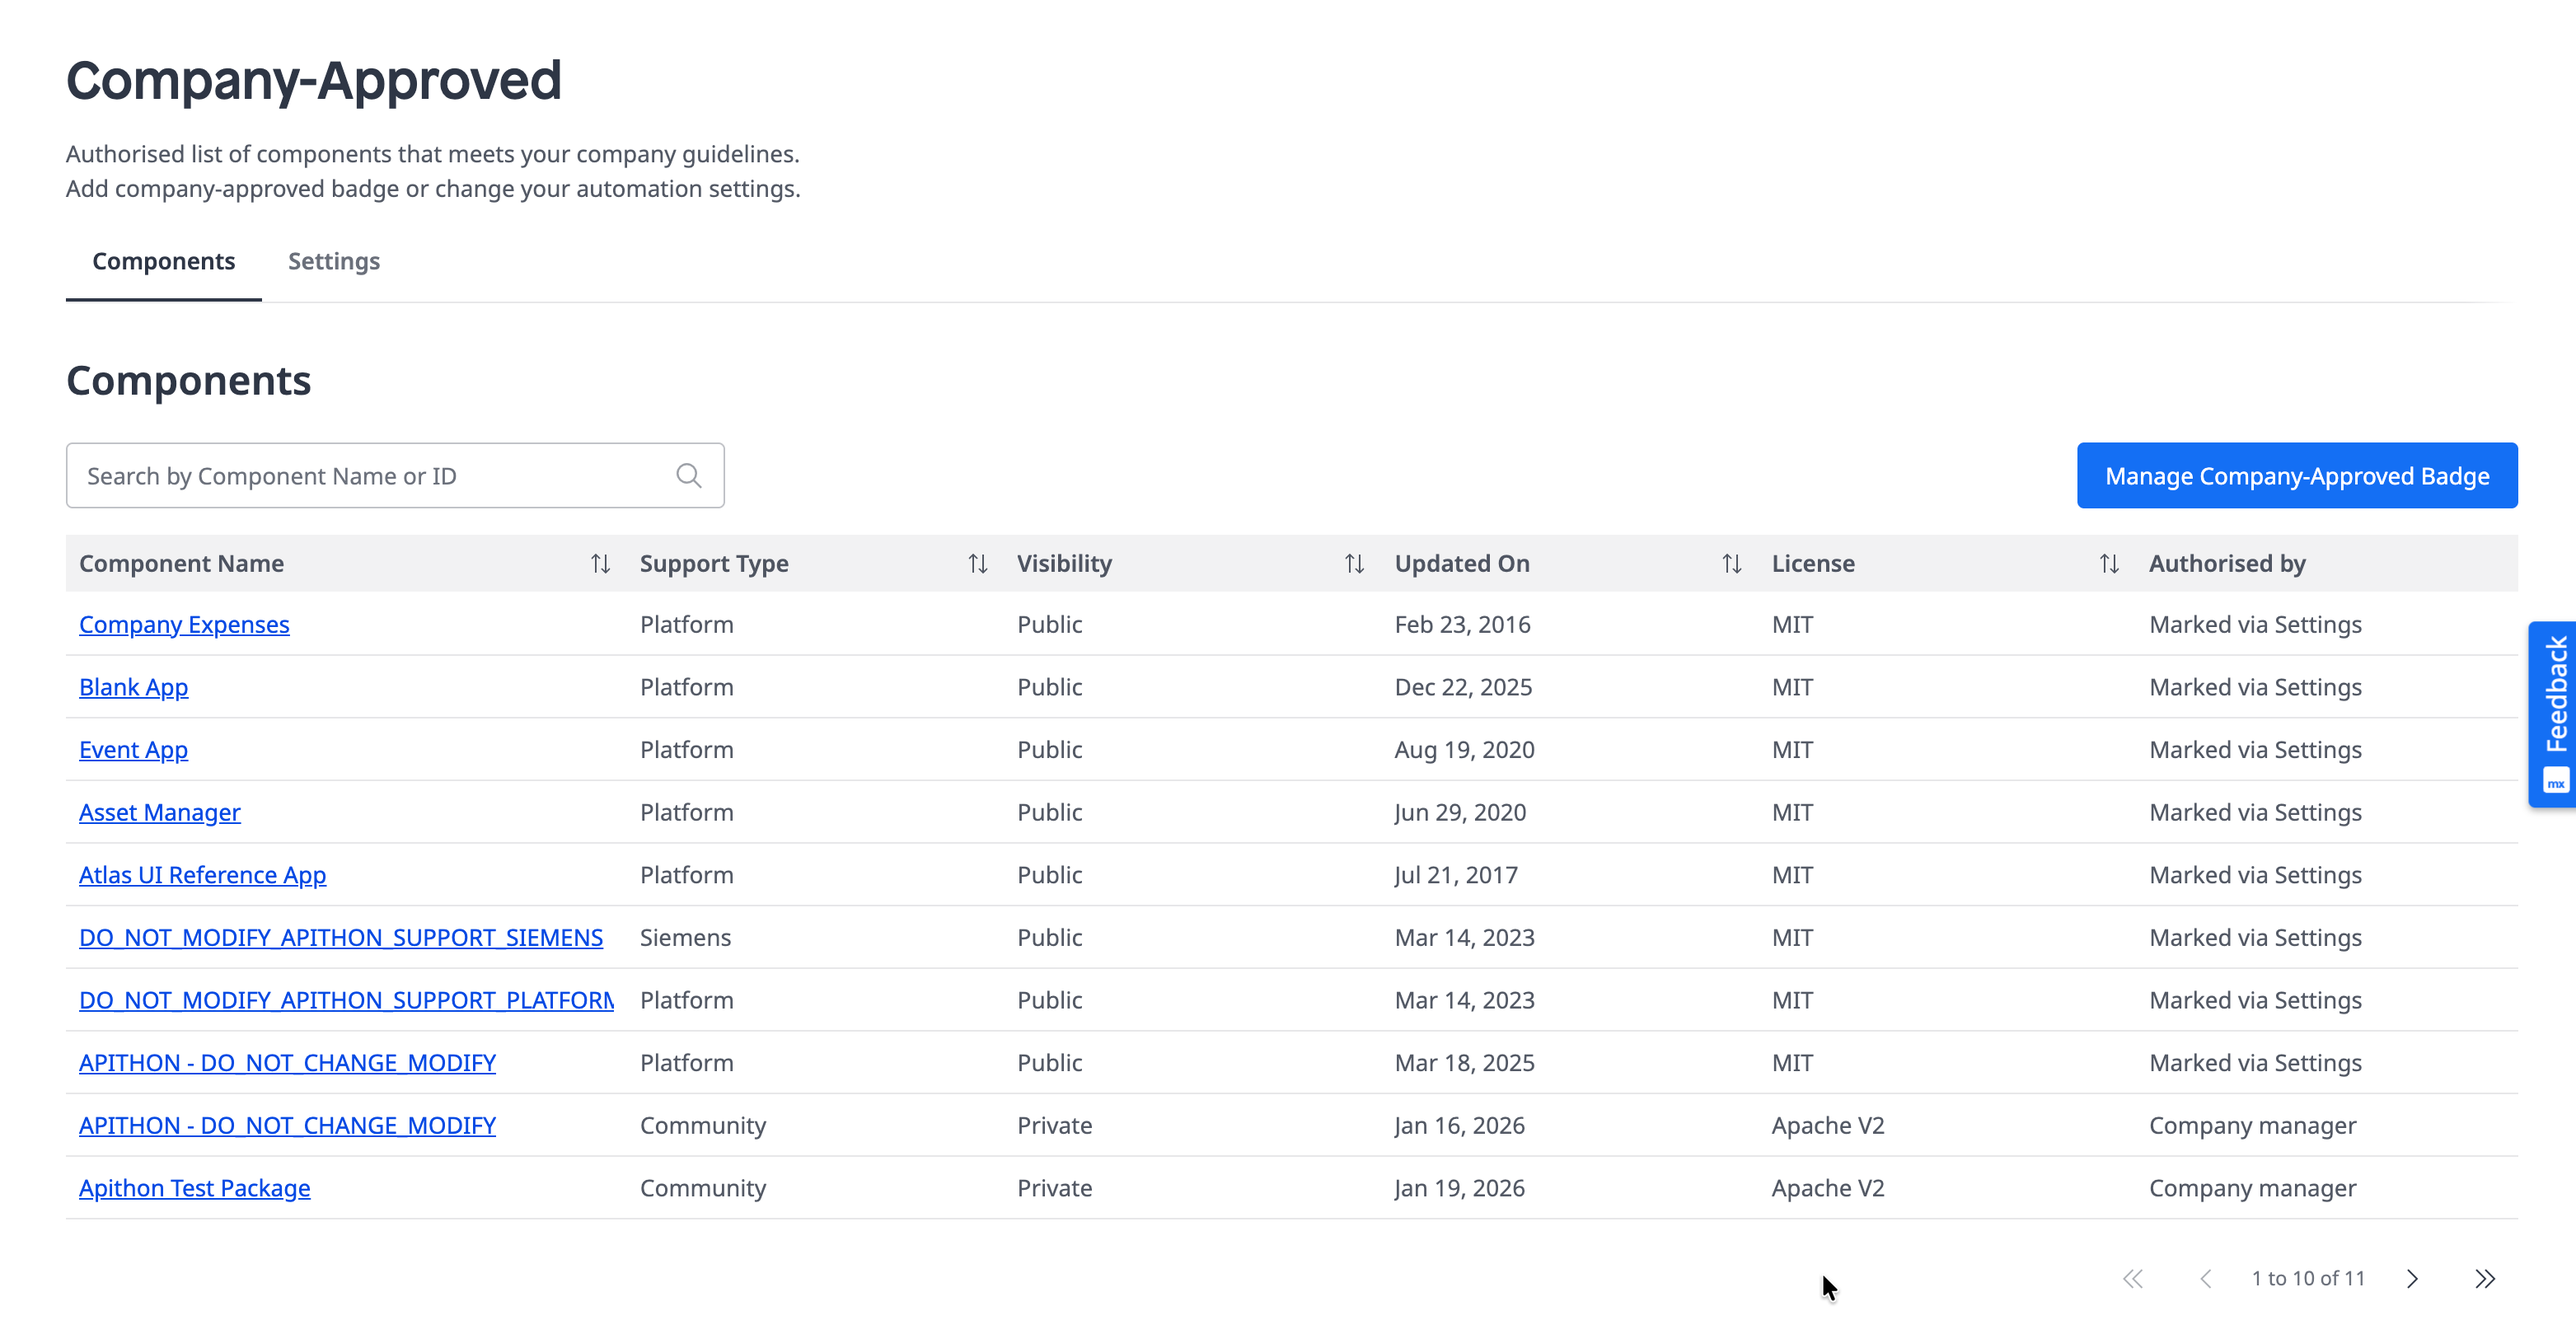
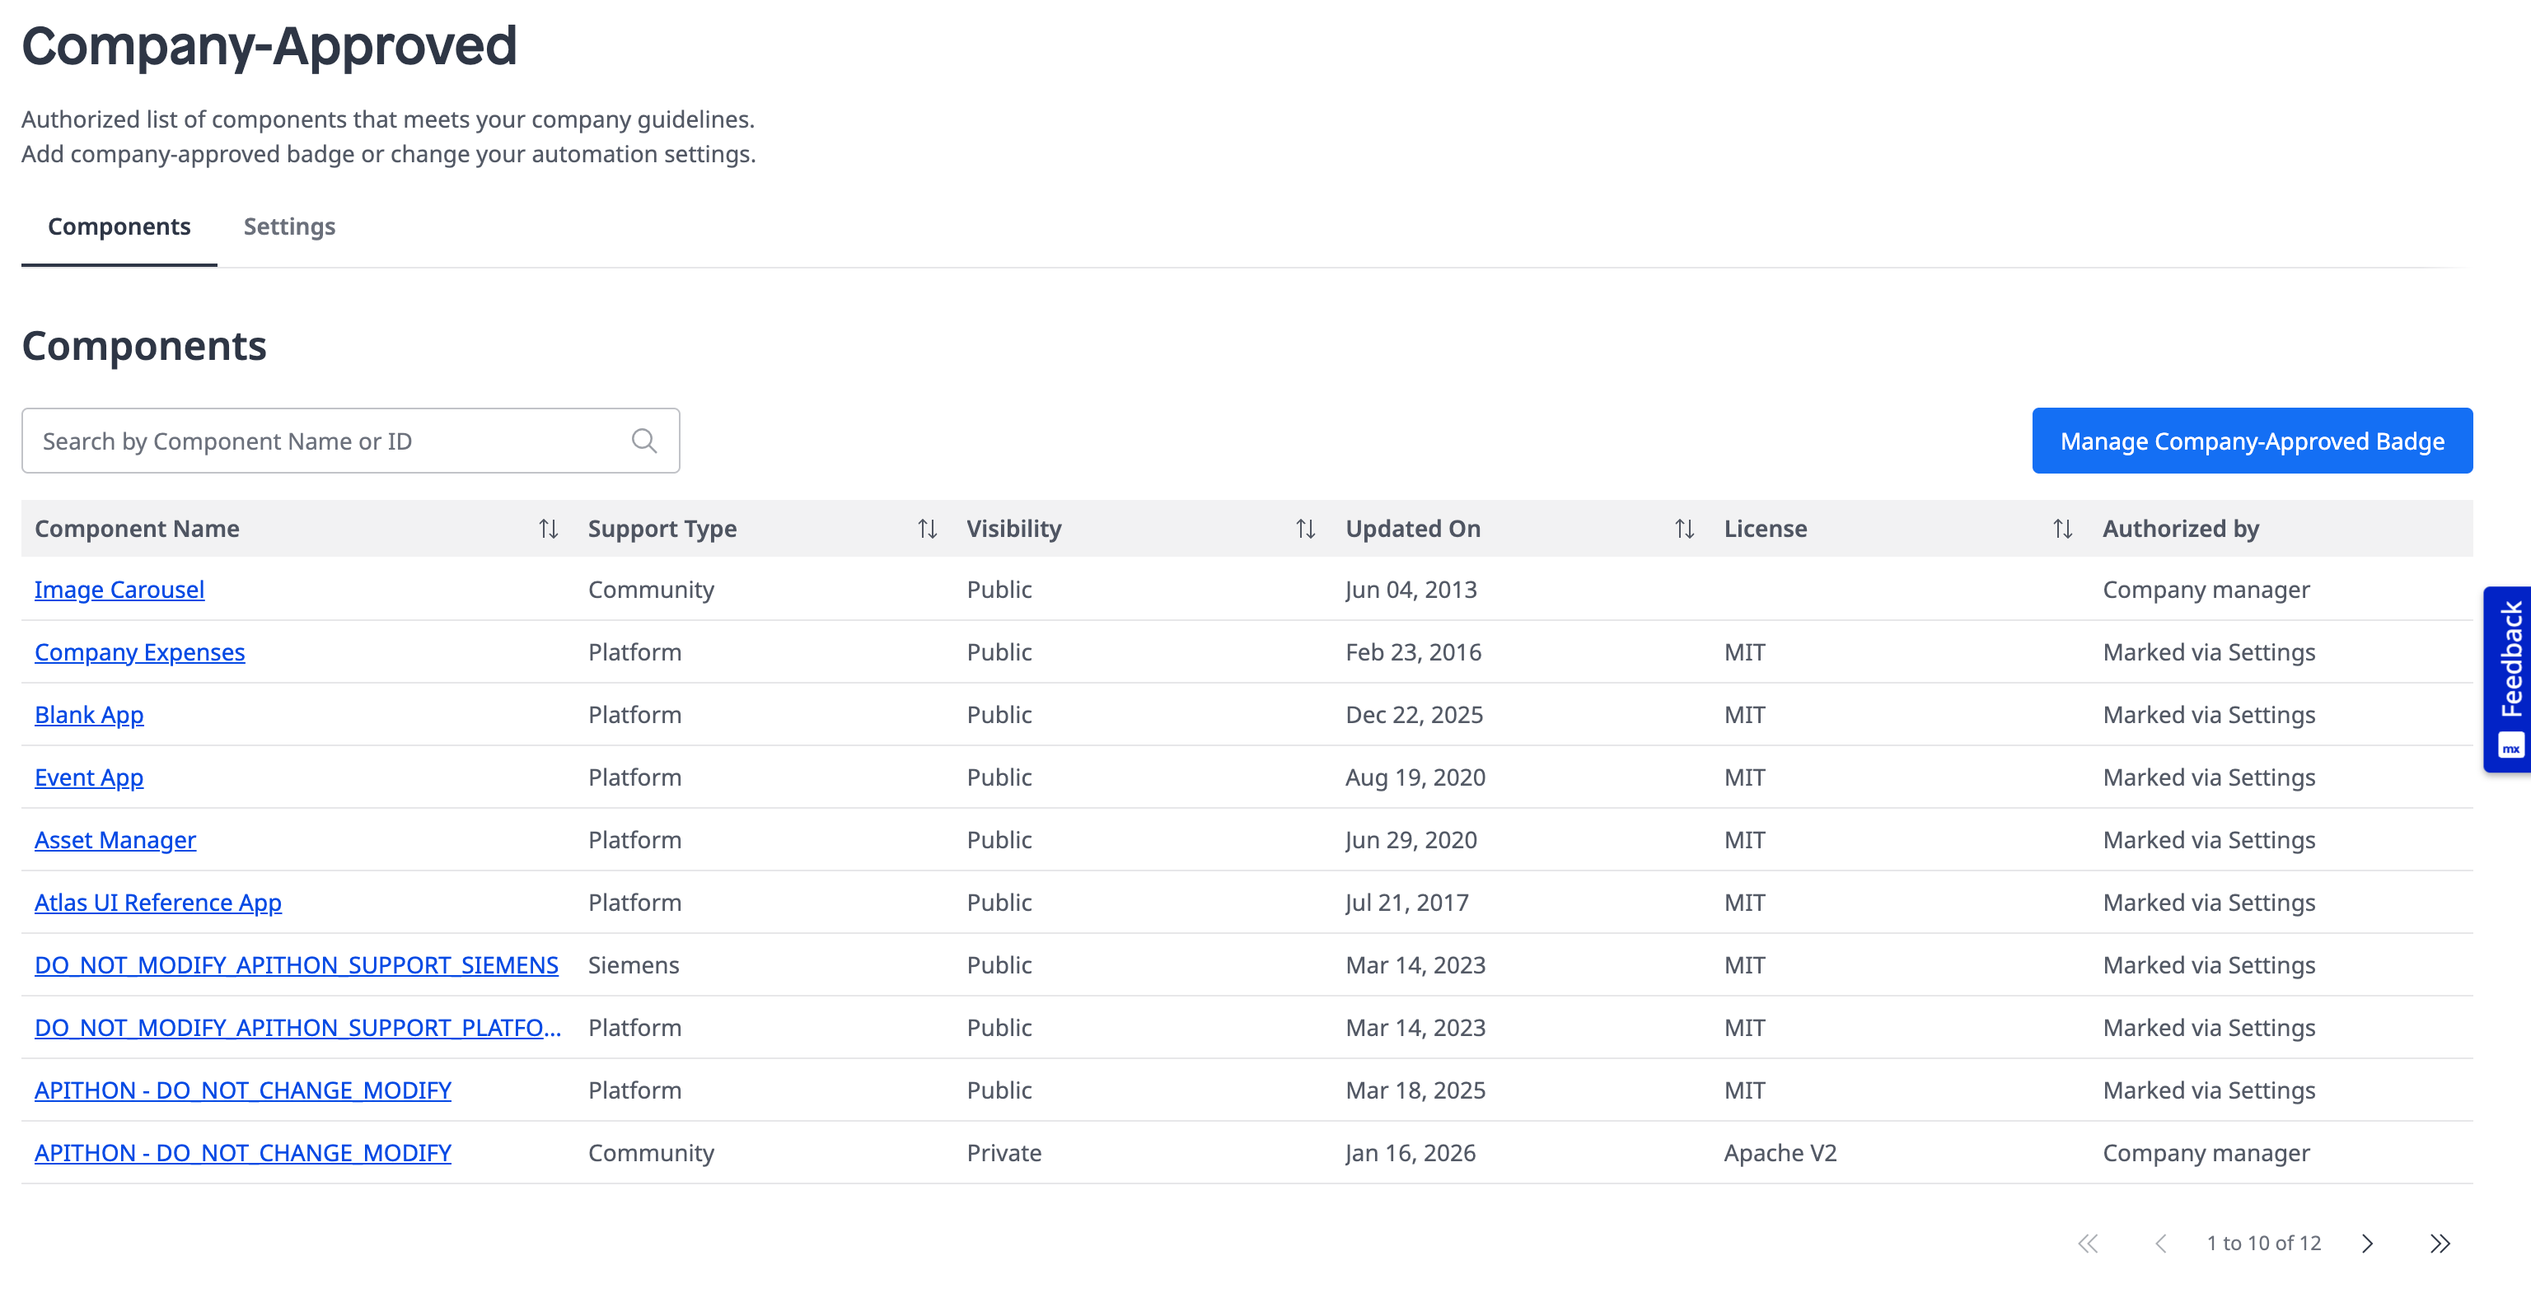
Implemented feedback

diff --git a/content/en/docs/control-center/marketplace/company-approved.md b/content/en/docs/control-center/marketplace/company-approved.md
@@ -26,7 +26,7 @@ The **Company-Approved** page contains the following tabs:
 
 {{< figure src="/attachments/control-center/marketplace/company-approved/company-approved.png" max-width=100% alt=''displaying-company-approved-mp-content'' >}}
 
-The **Components** tab lists all Marketplace content, be it public or private. It includes information about whether a component carries the company-approved badge, and if so, it shows the source of the badge. These are the details displayed in the list:
+The **Components** tab lists all company-approved Marketplace content, be it public or private. These are the details displayed in the list:
 
 * **Component Name** – The name of the component.
 * **Support Type** – The support type of the component.
@@ -43,14 +43,14 @@ The **Components** tab lists all Marketplace content, be it public or private. I
 {{< figure src="/attachments/control-center/marketplace/company-approved/manage-company-approved.png" max-width=70% alt=''displaying-company-approved-mp-content'' >}}
 
 For components that are not company-approved based on your [curation settings](#curation-settings), you can manually add the company-approved badge.    
-The **Manage Company-Approved Badge** page allows you to manually add and remove the company-approved badge for your company's components. To access it, click **Add Company-Approved Badge** in the top right of the component list.
+The **Manage Company-Approved Badge** page allows you to manually add and remove the company-approved badge for your company's components. To access it, click **Manage Company-Approved Badge** in the top right of the component list.
 
 The **Manage Company-Approved Badge** page includes the same fields as the component list, with the additional **Company Approval** field, which shows whether the component has been marked as company-approved or not. 
 
 You can click the contextual actions menu next to each component to change its company approval status.     
 Additionally, you can select multiple components to change their company approval status simultaneously.
 
-{{% alert color="info" %}}If you manually add a company-approved badge to a Marketplace component, this Marketplace component will always keep the badge, even if the curation settings get changed later. However, if you manually remove a company-approved badge from a Marketplace component, then the badge will automatically appear again if the curation settings get changed later, and the Marketplace component meets the new requirements. {{% /alert %}}
+{{% alert color="info" %}}If you manually add a company-approved badge to a Marketplace component, this Marketplace component will always keep the badge, even if the curation settings get changed later. The same thing is true if you manually remove a company-approved badge from a Marketplace component: it will not be added back even if the curation settings get changed later, and the Marketplace component meets the new requirements. {{% /alert %}}
 
 ## Settings {#curation-settings}
 
